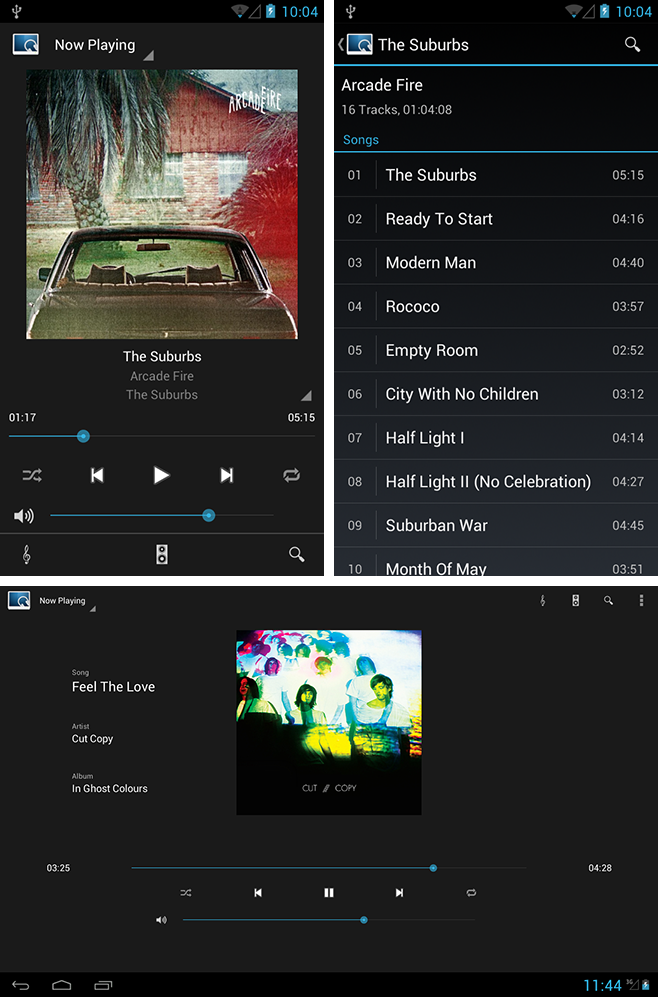
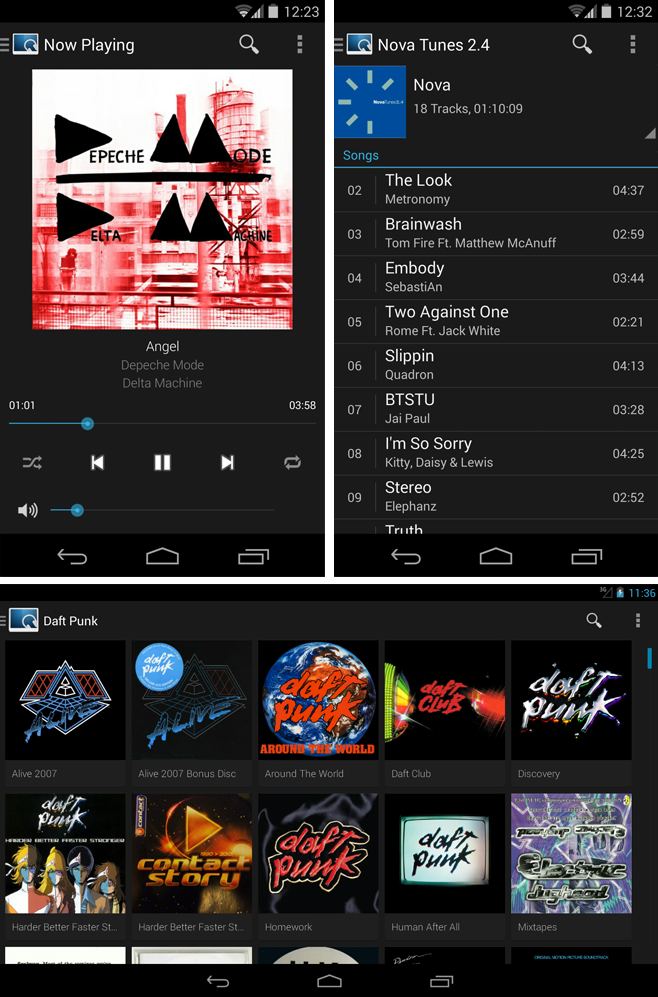
Readme updated

diff --git a/README.md b/README.md
@@ -7,11 +7,10 @@ You can browse your library, control the current song and playlist, manage your 
 What's not to like ? 
 
 ![Now Playing/library Screenshot](https://raw.github.com/abarisain/dmix/master/Screenshots/readme.png)  
-Note : Screenshots are from an old version and will be updated
 
 #### Compatibility
 
-MPDroid works on **all** devices from 4.0.3 (API 15) to 4.3+
+MPDroid works on **all** devices from 4.0.3 (API 15) to 4.4+
 
 
 #### Libraries used
